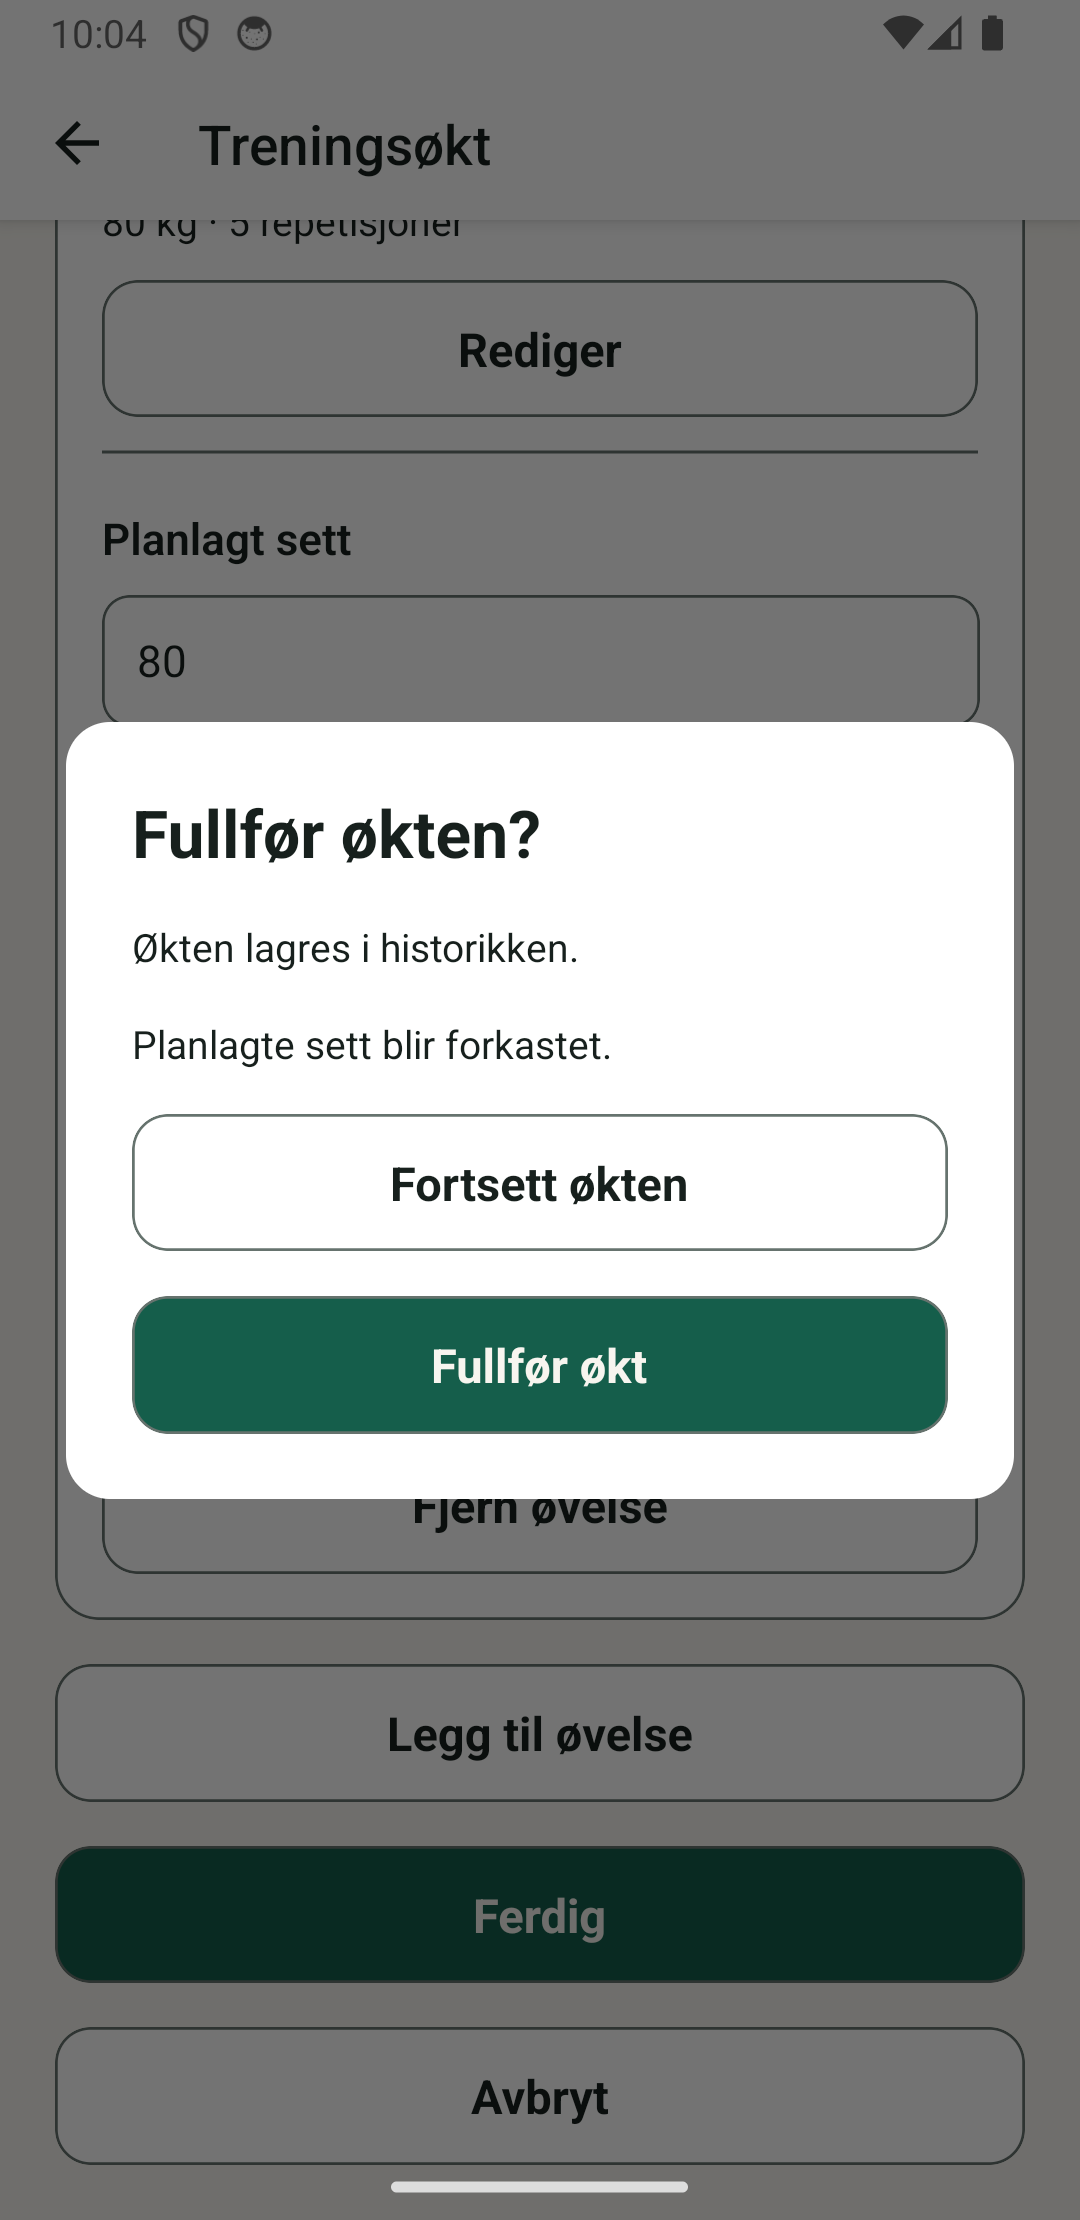
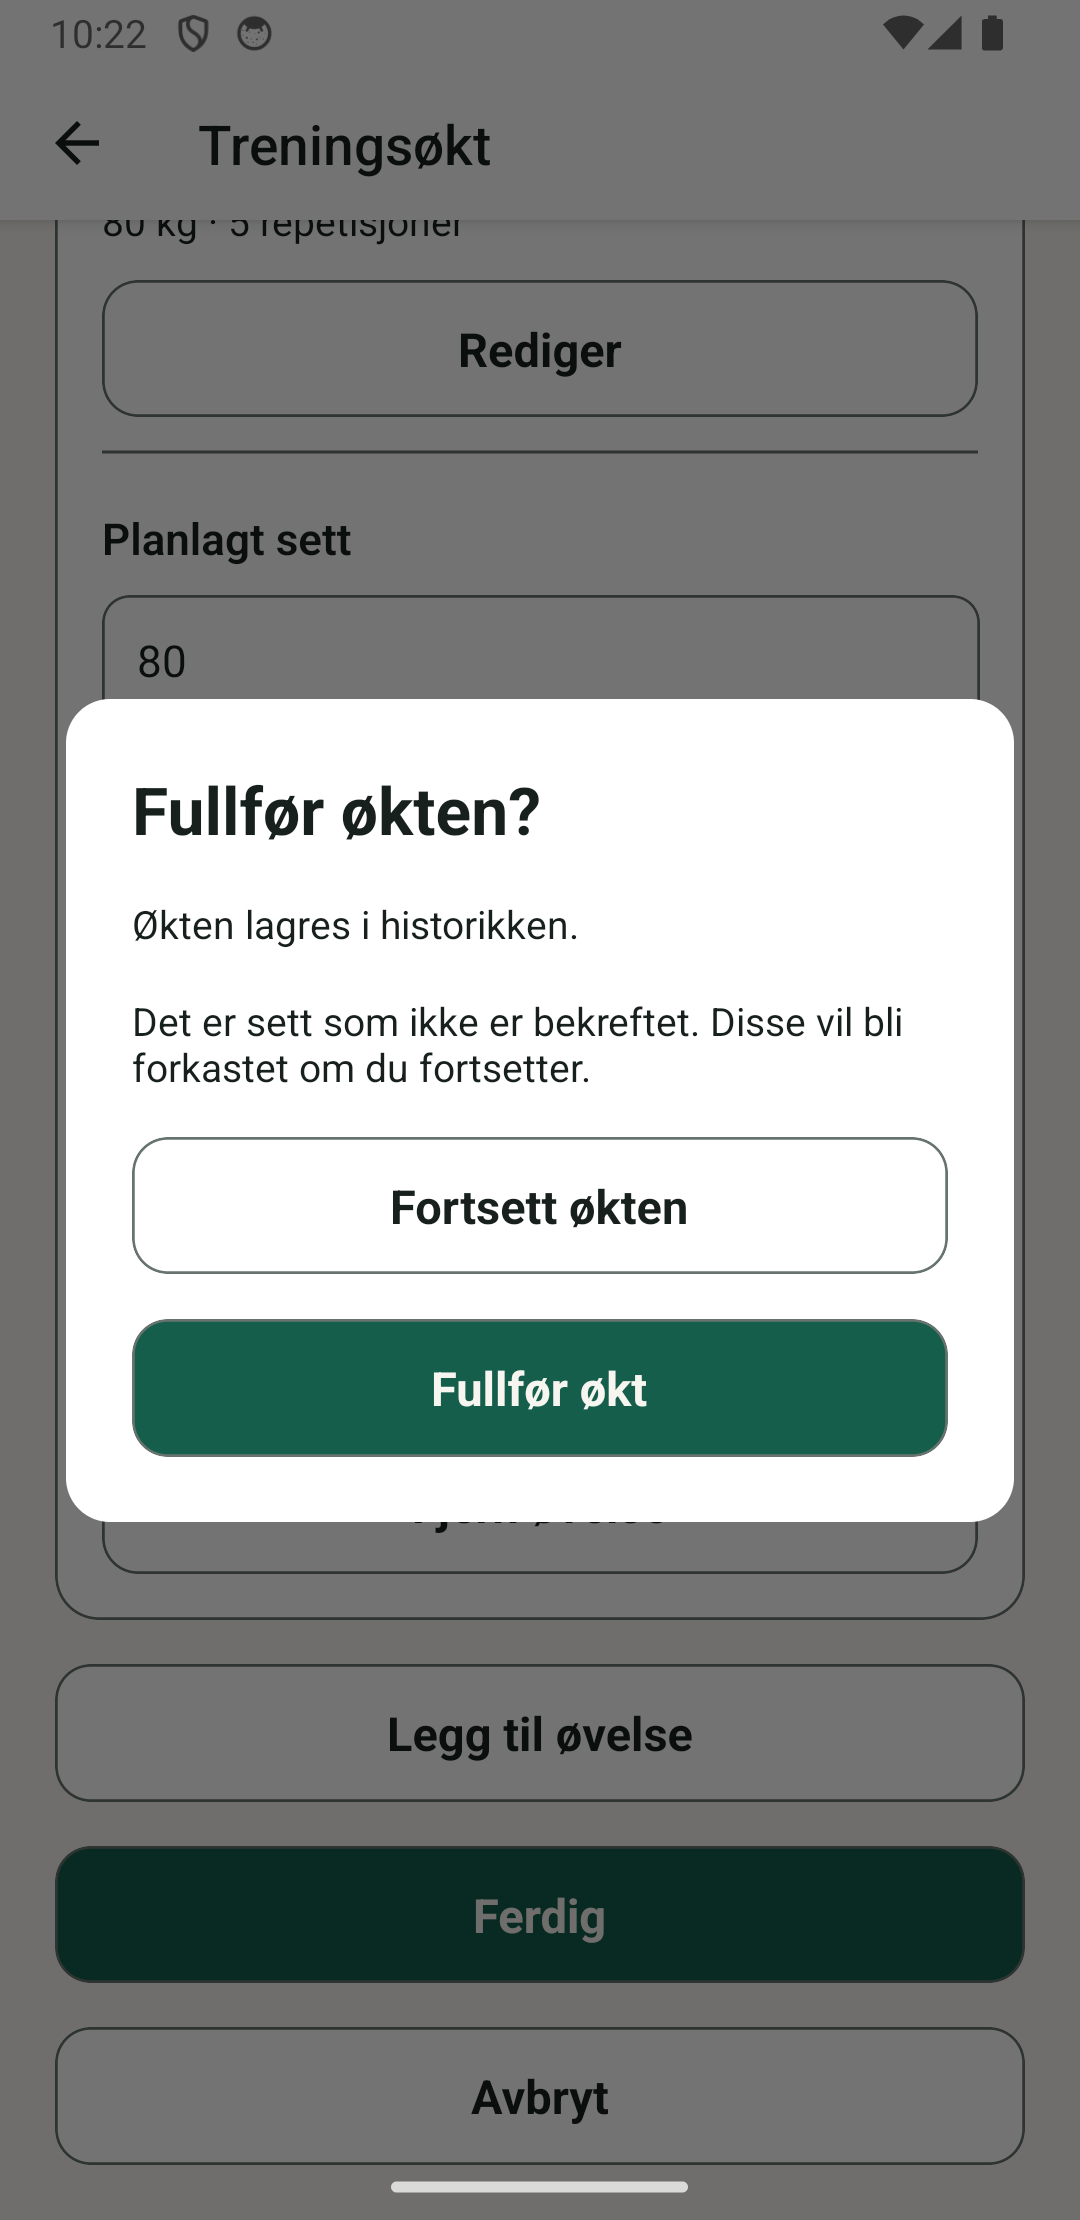
Clarify unconfirmed set warning

diff --git a/src/screens/__tests__/WorkoutScreen.test.tsx b/src/screens/__tests__/WorkoutScreen.test.tsx
@@ -127,7 +127,9 @@ test('enables completion only for durable completed sets and warns about planned
   fireEvent.press(complete);
 
   expect(screen.getByRole('header', { name: 'Fullfør økten?' })).toBeOnTheScreen();
-  expect(screen.getByText('Planlagte sett blir forkastet.')).toBeOnTheScreen();
+  expect(screen.getByText(
+    'Det er sett som ikke er bekreftet. Disse vil bli forkastet om du fortsetter.',
+  )).toBeOnTheScreen();
   expect(mockedComplete).not.toHaveBeenCalled();
 });
 
@@ -149,7 +151,9 @@ test('does not warn about planned sets when all sets are completed', async () =>
   renderScreen();
 
   fireEvent.press(await screen.findByRole('button', { name: 'Ferdig' }));
-  expect(screen.queryByText('Planlagte sett blir forkastet.')).not.toBeOnTheScreen();
+  expect(screen.queryByText(
+    'Det er sett som ikke er bekreftet. Disse vil bli forkastet om du fortsetter.',
+  )).not.toBeOnTheScreen();
 });
 
 test('focuses completion confirmation and restores focus when it is dismissed', async () => {

diff --git a/src/screens/WorkoutScreen.tsx b/src/screens/WorkoutScreen.tsx
@@ -723,7 +723,11 @@ export function WorkoutScreen({ navigation, route }: Props) {
             <View style={[styles.dialog, { backgroundColor: colors.card }]}>
               <Text accessibilityRole="header" style={[styles.dialogTitle, { color: colors.text }]}>Fullfør økten?</Text>
               <Text style={{ color: colors.text }}>Økten lagres i historikken.</Text>
-              {hasPlannedSet && <Text style={{ color: colors.text }}>Planlagte sett blir forkastet.</Text>}
+              {hasPlannedSet && (
+                <Text style={{ color: colors.text }}>
+                  Det er sett som ikke er bekreftet. Disse vil bli forkastet om du fortsetter.
+                </Text>
+              )}
               <Button disabled={completing} label="Fortsett økten" onPress={() => {
                 setCompleteDialogOpen(false);
                 requestAnimationFrame(() => focus(completeRef));
